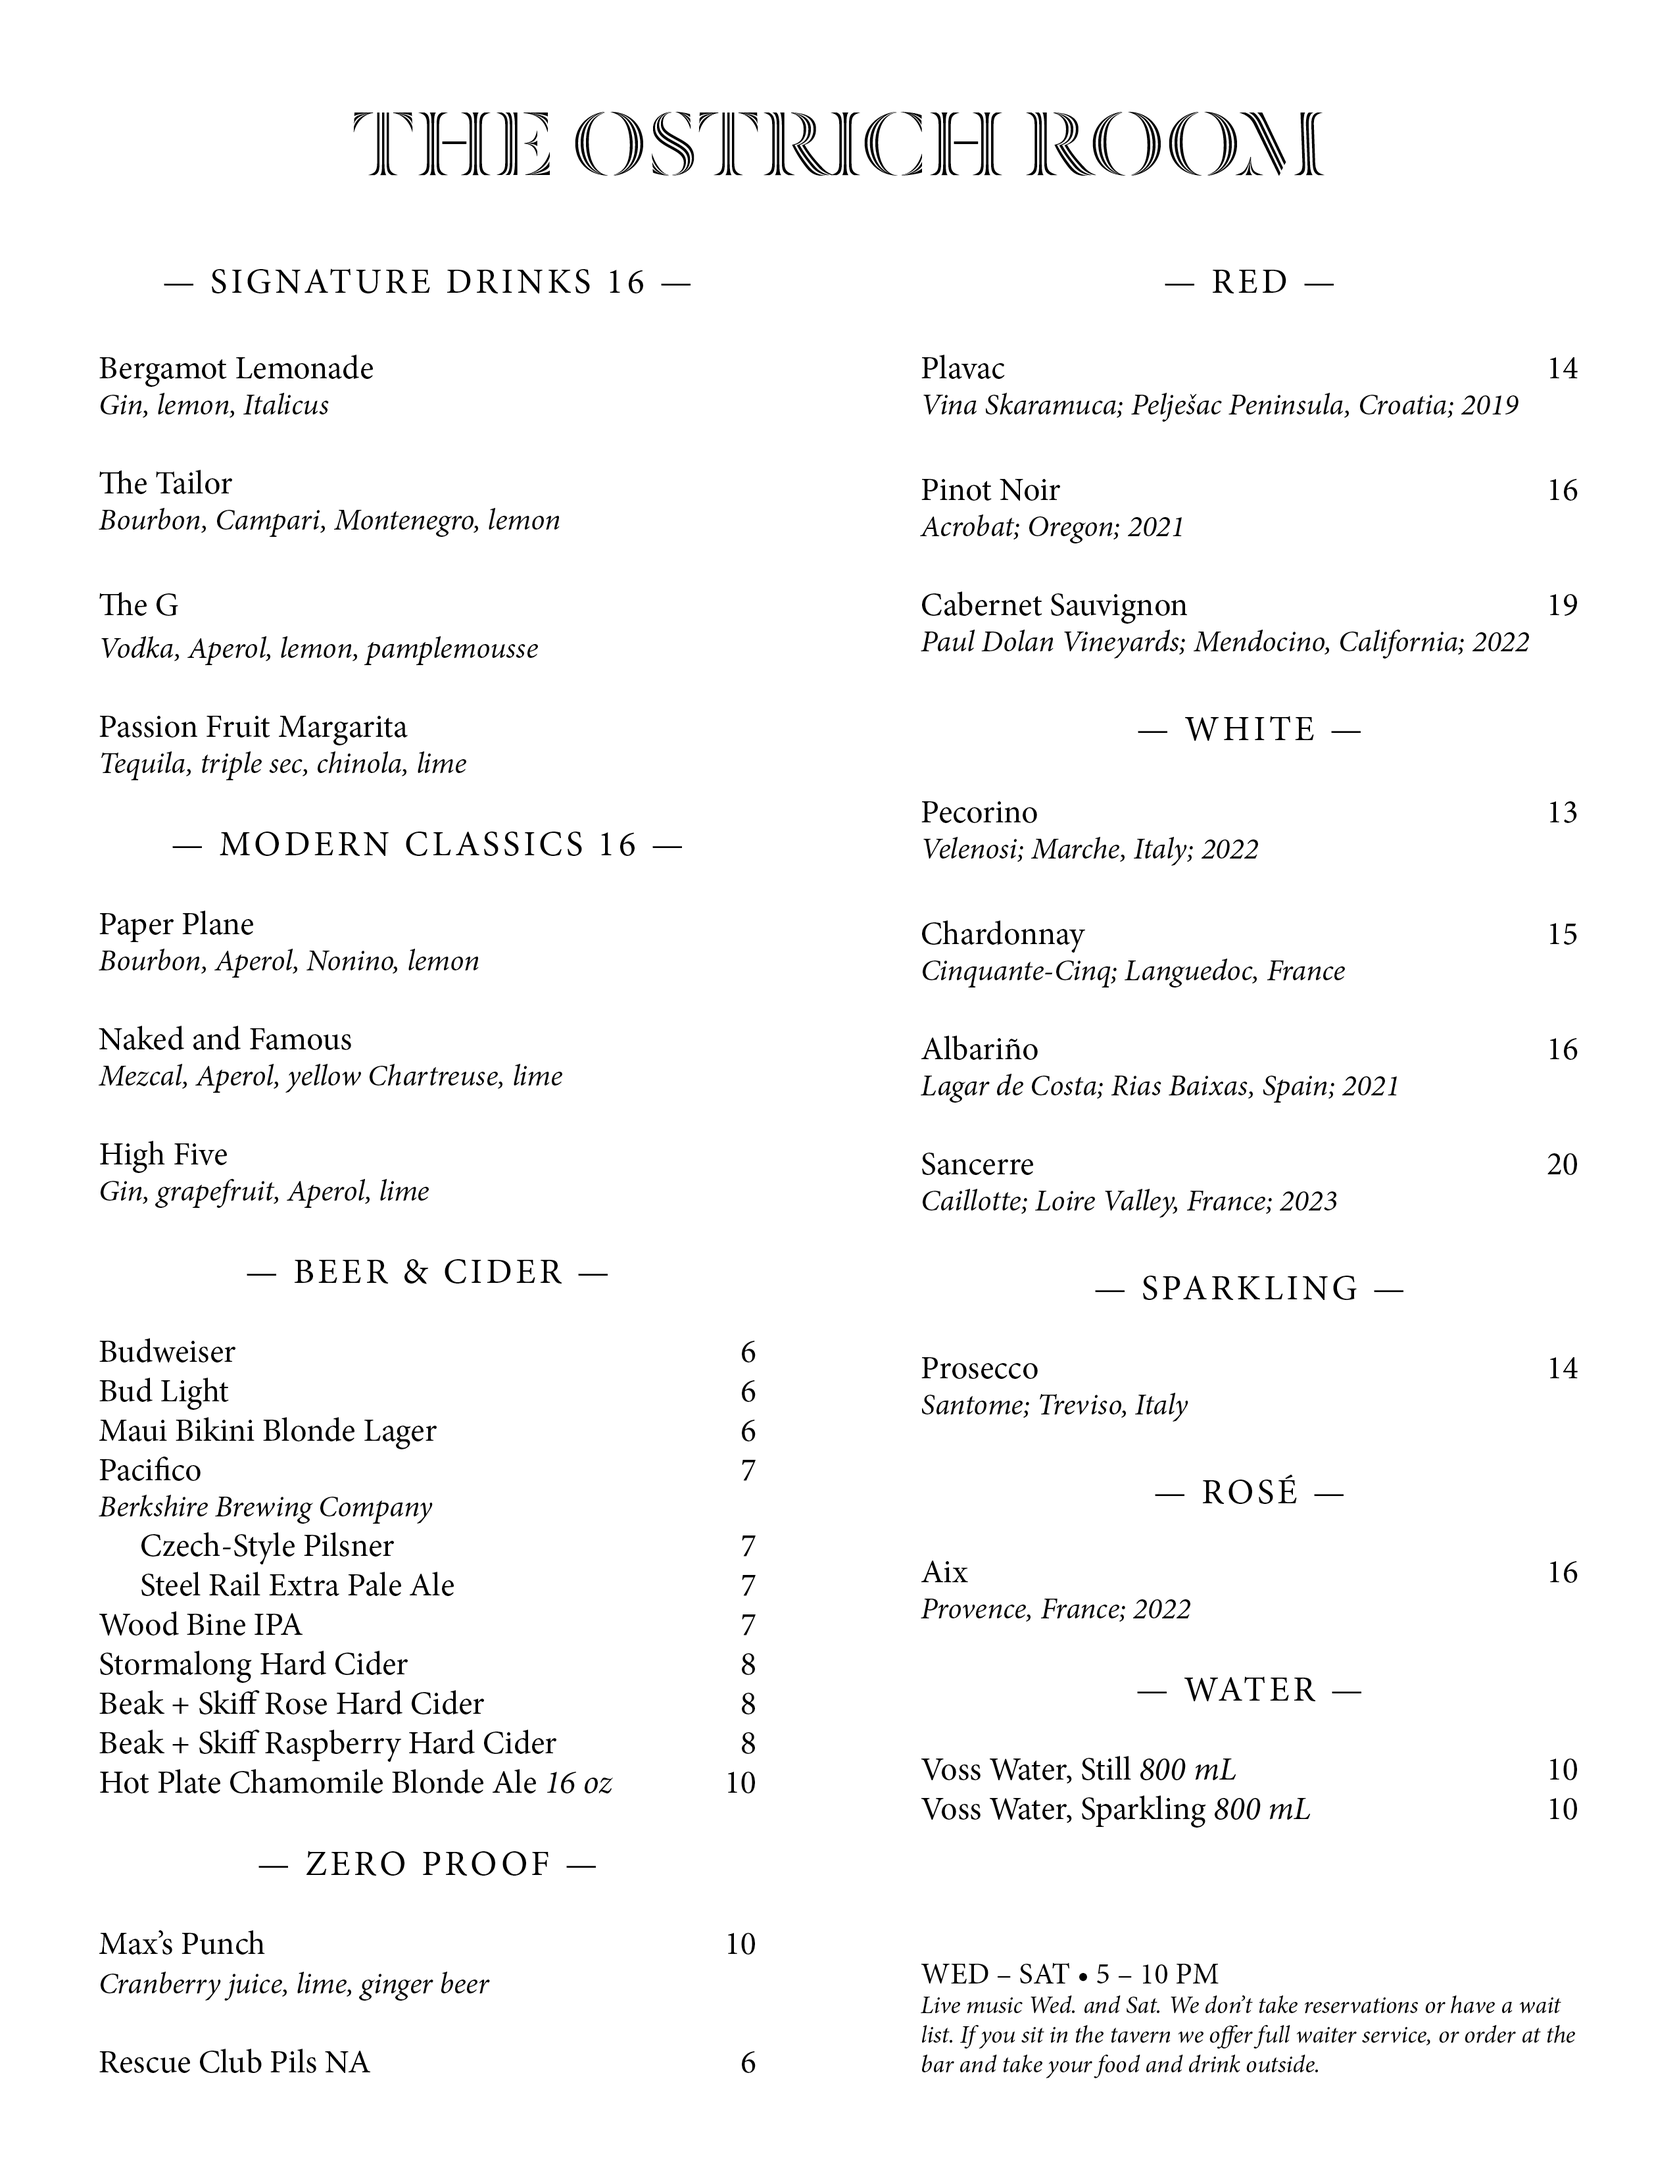
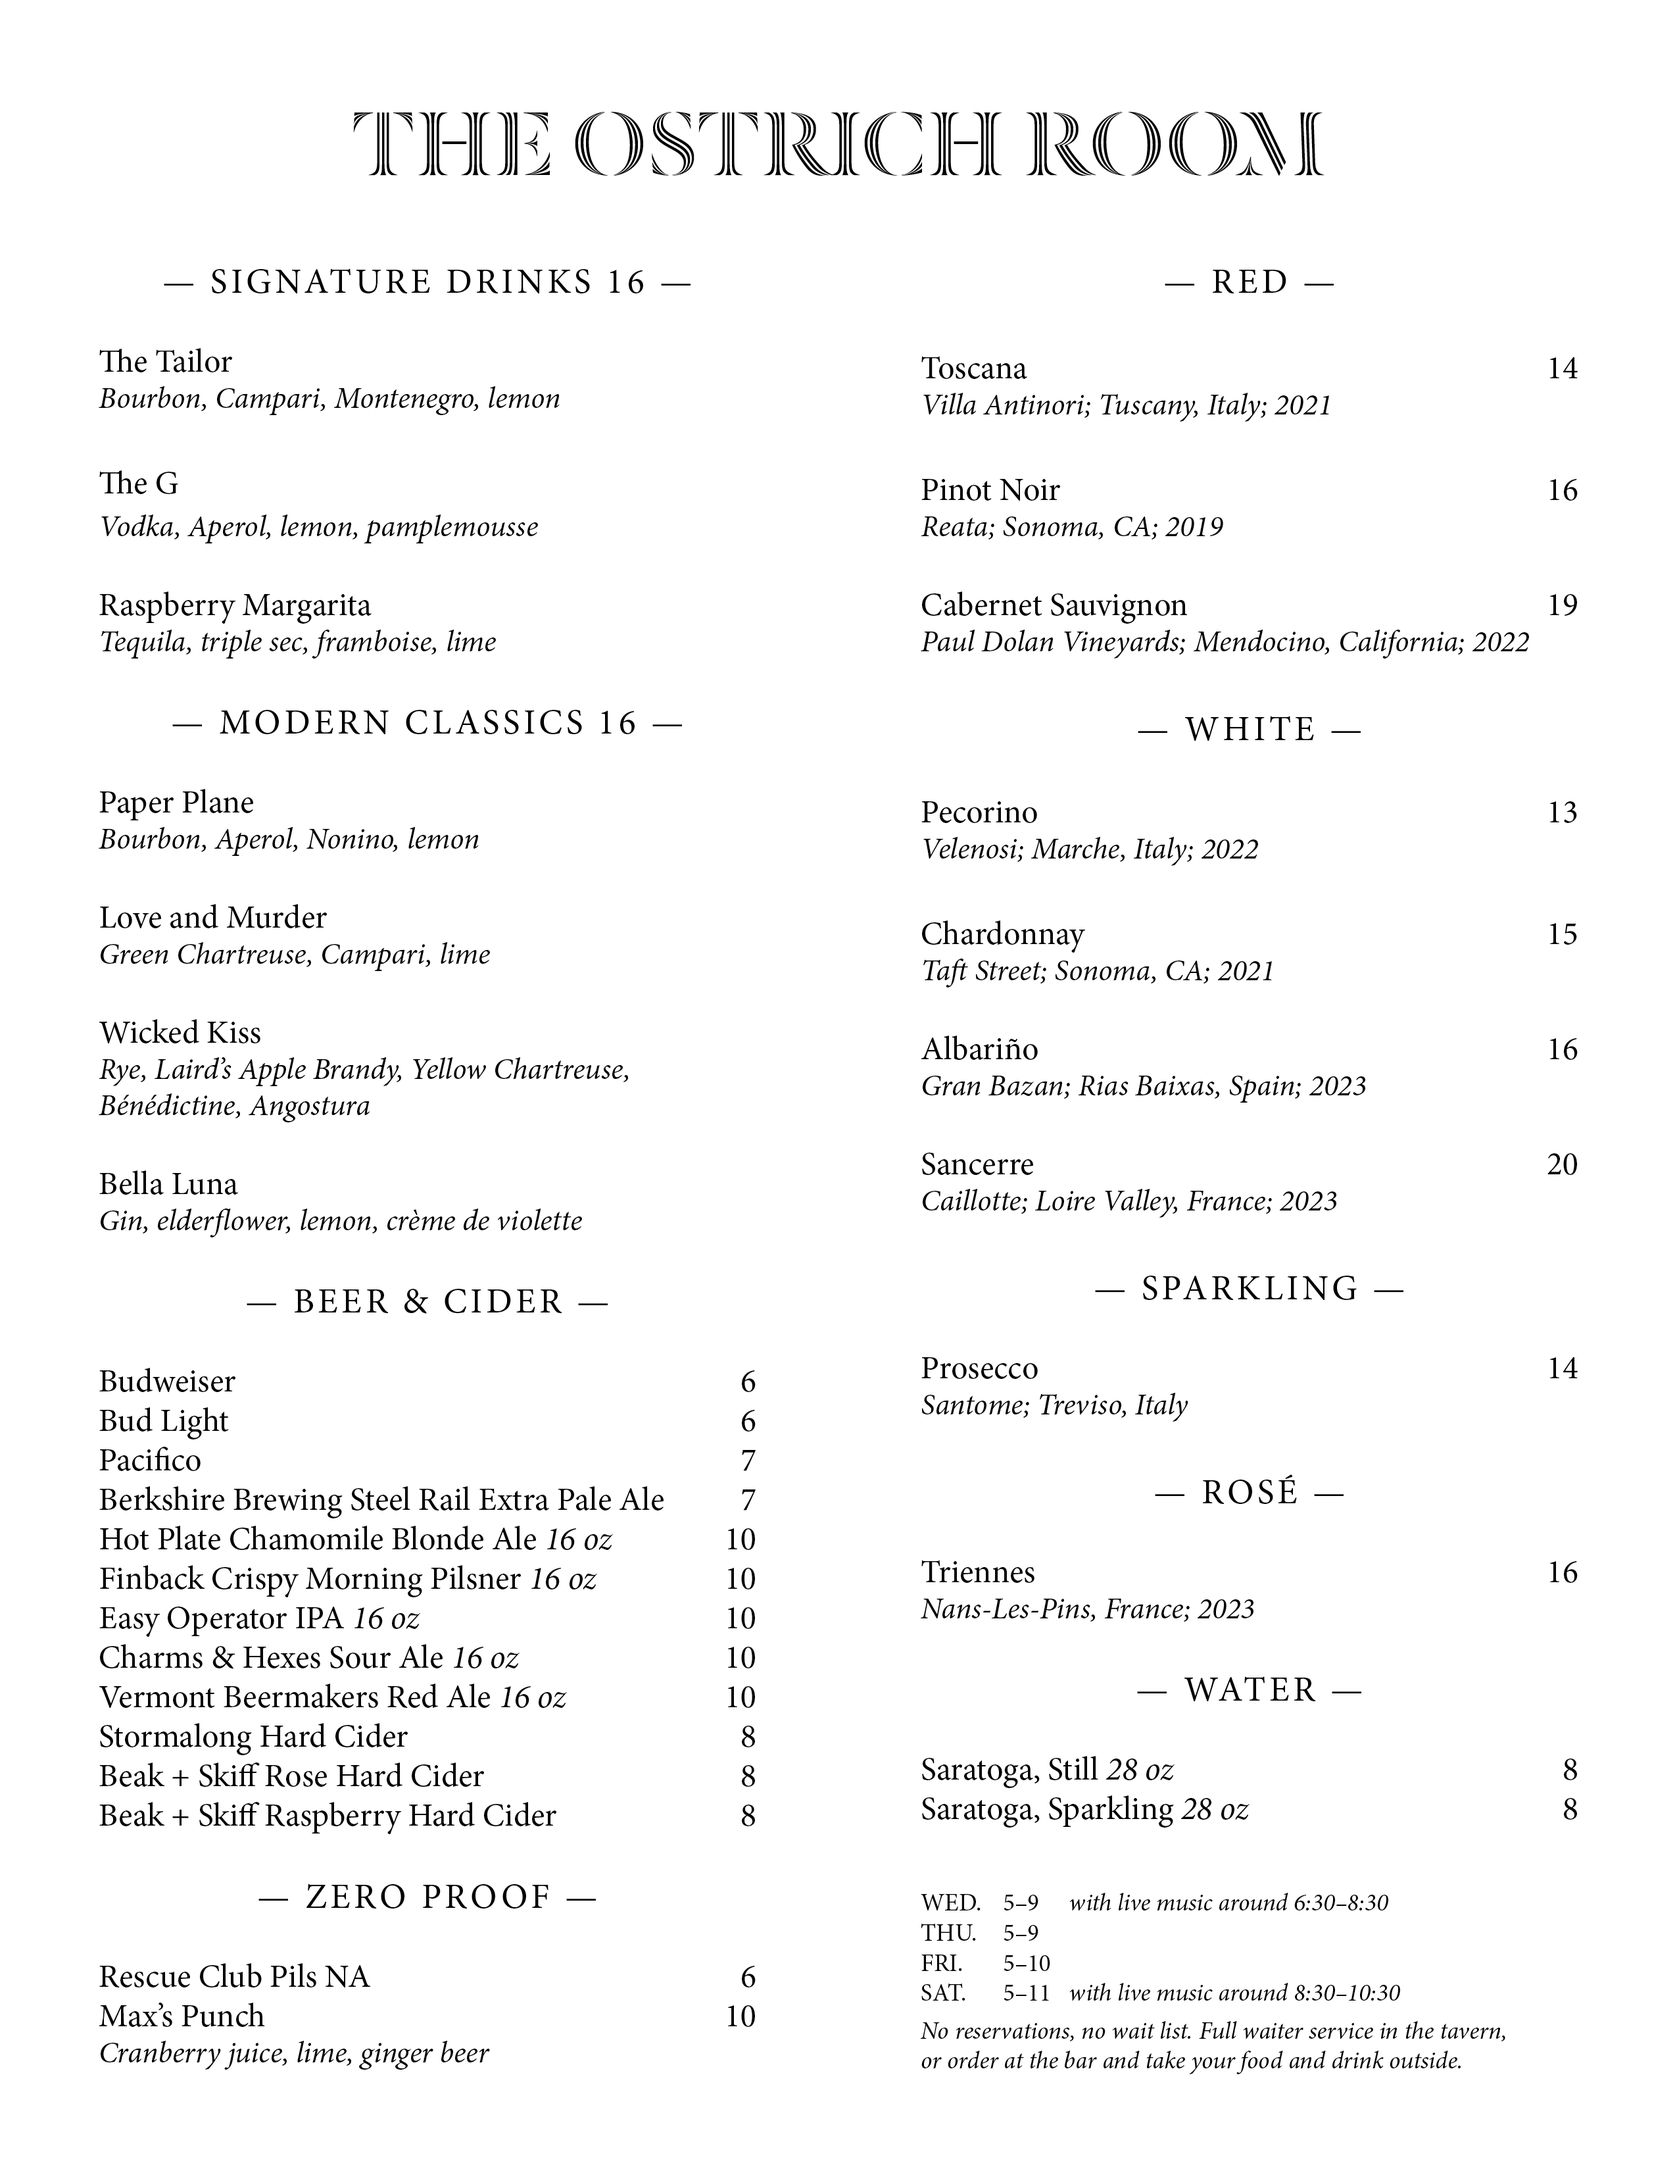
update ostrich rm hours and menus

diff --git a/.svelte-kit/ambient.d.ts b/.svelte-kit/ambient.d.ts
@@ -34,12 +34,12 @@ declare module '$env/static/private' {
 	export const INIT_CWD: string;
 	export const npm_package_devDependencies_prettier_plugin_svelte: string;
 	export const npm_config_version_git_tag: string;
-	export const TERM: string;
 	export const SHELL: string;
+	export const TERM: string;
 	export const npm_package_devDependencies_vite: string;
 	export const FNM_NODE_DIST_MIRROR: string;
-	export const HOMEBREW_REPOSITORY: string;
 	export const TMPDIR: string;
+	export const HOMEBREW_REPOSITORY: string;
 	export const npm_config_init_license: string;
 	export const npm_config_email: string;
 	export const TERM_PROGRAM_VERSION: string;
@@ -75,8 +75,8 @@ declare module '$env/static/private' {
 	export const npm_package_name: string;
 	export const npm_package_scripts_build: string;
 	export const npm_config_version_commit_hooks: string;
-	export const FNM_MULTISHELL_PATH: string;
 	export const XPC_FLAGS: string;
+	export const FNM_MULTISHELL_PATH: string;
 	export const VSCODE_GIT_ASKPASS_EXTRA_ARGS: string;
 	export const npm_config_username: string;
 	export const npm_config_bin_links: string;
@@ -84,8 +84,8 @@ declare module '$env/static/private' {
 	export const npm_package_devDependencies__sveltejs_adapter_auto: string;
 	export const npm_package_version: string;
 	export const VSCODE_INJECTION: string;
-	export const SHLVL: string;
 	export const HOME: string;
+	export const SHLVL: string;
 	export const npm_package_type: string;
 	export const VSCODE_GIT_ASKPASS_MAIN: string;
 	export const npm_config_save_prefix: string;
@@ -150,12 +150,12 @@ declare module '$env/dynamic/private' {
 		INIT_CWD: string;
 		npm_package_devDependencies_prettier_plugin_svelte: string;
 		npm_config_version_git_tag: string;
-		TERM: string;
 		SHELL: string;
+		TERM: string;
 		npm_package_devDependencies_vite: string;
 		FNM_NODE_DIST_MIRROR: string;
-		HOMEBREW_REPOSITORY: string;
 		TMPDIR: string;
+		HOMEBREW_REPOSITORY: string;
 		npm_config_init_license: string;
 		npm_config_email: string;
 		TERM_PROGRAM_VERSION: string;
@@ -191,8 +191,8 @@ declare module '$env/dynamic/private' {
 		npm_package_name: string;
 		npm_package_scripts_build: string;
 		npm_config_version_commit_hooks: string;
-		FNM_MULTISHELL_PATH: string;
 		XPC_FLAGS: string;
+		FNM_MULTISHELL_PATH: string;
 		VSCODE_GIT_ASKPASS_EXTRA_ARGS: string;
 		npm_config_username: string;
 		npm_config_bin_links: string;
@@ -200,8 +200,8 @@ declare module '$env/dynamic/private' {
 		npm_package_devDependencies__sveltejs_adapter_auto: string;
 		npm_package_version: string;
 		VSCODE_INJECTION: string;
-		SHLVL: string;
 		HOME: string;
+		SHLVL: string;
 		npm_package_type: string;
 		VSCODE_GIT_ASKPASS_MAIN: string;
 		npm_config_save_prefix: string;

diff --git a/src/routes/ostrich-room/+page.svelte b/src/routes/ostrich-room/+page.svelte
@@ -3,6 +3,7 @@
 	import Footer from '../Footer.svelte';
 	import Slideshow from '../Slideshow.svelte';
 	import { loadEvents, formatDate } from '$lib/index.js';
+	import OpenSignBig from '../OpenSignBig.svelte';
 
 	let data = $state(undefined);
 	(async function () {
@@ -30,29 +31,19 @@
 	<div class="grid-or-flex">
 		<div>
 			<h1>The Ostrich Room</h1>
-			<div style="background: var(--tan); border: 1px solid var(--brown); border-radius: 5px; padding: 0.5em 0.75em;">The Ostrich Room will be closed September 4–7 for a private event. We’ll reopen on Wed., September 11.</div>
-			<p><s>Ten</s> Seven things to know:</p>
+			<h2>Hours</h2>
+			<OpenSignBig />
+			<h2>Five things to know</h2>
 			<ol>
-				<li>We are open Wednesday – Saturday evenings for both guests and the public.</li>
-				<li>We open at 5 p.m. and close at 10 p.m.</li>
-				<li>
-					We have live music twice a week — Wednesdays & Saturdays — from approximately 7:30–9:30
-					p.m. (see <a href="#calendar">schedule</a>).
-				</li>
-				<li>
-					We do not take reservations & we do not keep a wait list. All tables are first come, first
-					serve, including for hotel guests!
-				</li>
-				<li>If you snag a table in the Ostrich Room, we offer full waiter service.</li>
-				<li>
-					You can also find a spot to sit in the lobby, on the front porch, or outside on the picnic
-					tables and then come in and order at the bar. Take your drinks with you and we’ll bring
-					the food out to you when it’s ready. We will bus your table when you’re done.
-				</li>
-				<li>
-					Life is a work in progress! All of the above may change in the future! Thank you for being
-					here!
-				</li>
+<li>We do not take reservations and we do not keep a wait list. All tables are “first come, first served”, including for hotel guests.</li>
+<li>If you sit in the Ostrich Room, we will come to your table to take your order.</li>
+<li>If you want to sit elsewhere, please order at the bar. Take your drinks with you, and we’ll bring the food.
+	<ul>
+		<li>Feel free to sit in the lobby, on the porch, or outside at the picnic tables. It’s a nice view!</li>
+	</ul>
+</li>
+<li>We will clear your table when you’re done.</li>
+<li>Life is a work in progress! All this may change! Thank you for being here!</li>
 			</ol>
 			<p>
 				Originally built in 1899 by then-owners Henry Pease and Katharine Di Pollone as a billiards
@@ -112,13 +103,13 @@
 <Footer />
 
 <style>
-	h1 {
-		margin-bottom: 0;
+	h2 {
+		margin: 1em 0 0.5em 0;
 	}
 
 	.menus {
 		display: grid;
-		grid-template-columns: 1fr 1fr;
+		grid-template-columns: 1.305fr 1fr;
 		gap: 1em;
 		width: 100%;
 	}

diff --git a/src/lib/index.js b/src/lib/index.js
@@ -2,6 +2,24 @@
 // e.g. import { buildings } from '$lib/index.js';
 import { csvParse } from 'd3-dsv';
 
+// Keep in sync with Banner.svelte message
+export const hours = [
+	[3, [17, 21]],
+	[4, [17, 21]],
+	[5, [17, 22]],
+	[6, [17, 23]]
+];
+
+export const musicHours = [
+	[3, ["6:30", "8:30"]],
+	[6, ["8:30", "10:30"]]
+]
+
+// These dates override the open times
+export const closures = [
+	// new Date(2024, 8, 4),
+];
+
 export async function loadEvents() {
 	let sheet;
 	try {
@@ -16,9 +34,11 @@ export async function loadEvents() {
 	}
 	const now = new Date();
 	const today = new Date(now.getFullYear(), now.getMonth(), now.getDate() - 1); // todo: more robust
-	const data = csvParse(sheet)
-		.map((d) => ({ date: new Date(d.date), description: d.description || "TBD" }))
-	return {past: data.filter(d => d.date < today), future: data.filter((d) => d.date >= today)};
+	const data = csvParse(sheet).map((d) => ({
+		date: new Date(d.date),
+		description: d.description || 'TBD'
+	}));
+	return { past: data.filter((d) => d.date < today), future: data.filter((d) => d.date >= today) };
 }
 
 export const formatDate = (date) =>

diff --git a/src/routes/OpenSignBig.svelte b/src/routes/OpenSignBig.svelte
@@ -1,0 +1,35 @@
+<script>
+	import { hours, closures, musicHours } from '$lib/index.js';
+	const daysOfWeek = ['Sun', 'Mon', 'Tue', 'Wed', 'Thu', 'Fri', 'Sat'];
+    const getMusicForDay = day => {
+        const music = musicHours.find(m => m[0] === day);
+        if (!music) return null;
+        return `with live music ~${music[1].join("–")}`;
+    }
+</script>
+
+<table class="hours">
+	<tbody>
+		{#each hours as day}
+			<tr>
+				<td>{daysOfWeek[day[0]]}.</td>
+				<td>{day[1].map((d) => d - 12).join('–')} p.m.</td>
+                <td style="font-style: italic;">{getMusicForDay(day[0])}</td>
+			</tr>
+		{/each}
+	</tbody>
+</table>
+
+<style>
+	.hours {
+        border-collapse: collapse;
+	}
+	td {
+		padding-right: 0.5em;
+        vertical-align: top;
+	}
+	thead td {
+		padding-bottom: 0.5em;
+		text-transform: uppercase;
+	}
+</style>

diff --git a/src/routes/OpenSign.svelte b/src/routes/OpenSign.svelte
@@ -1,24 +1,10 @@
 <script>
+	import {hours, closures} from "$lib/index.js";
+	
 	const isET = Intl.DateTimeFormat().resolvedOptions().timeZone === 'America/New_York';
 	const today = new Date();
 	const day = today.getDay();
 	const hour = today.getHours();
-
-	// Keep in sync with Banner.svelte message
-	const hours = [
-		[3, [17, 22]],
-		[4, [17, 22]],
-		[5, [17, 22]],
-		[6, [17, 22]]
-	];
-
-	// These dates override the open times
-	const closures = [
-		new Date(2024, 8, 4),
-		new Date(2024, 8, 5),
-		new Date(2024, 8, 6),
-		new Date(2024, 8, 7),
-	];
 
 	function isClosure(date) {
 		return !!closures.find(c => +c === +(new Date(date.getFullYear(), date.getMonth(), date.getDate())));

diff --git a/src/routes/Banner.svelte b/src/routes/Banner.svelte
@@ -1,7 +1,7 @@
 <script>
 	import { onMount } from 'svelte';
 	// Keep in sync with OpenSign.svelte hours
-    const message = 'OSTRICH ROOM CLOSED SEP. 4–7, BACK WED. SEP. 11';
+    const message = 'NEW HOURS FOR OSTRICH ROOM — NOW OPEN TIL 11 SAT — SEE GOOGLE MAPS';
     const chars = message.toUpperCase().split('');
 	onMount(() => {
         const charWidth = 14;

diff --git a/static/styles.css b/static/styles.css
@@ -55,12 +55,12 @@ h1 {
 	margin: 0;
 }
 
-h1 + h2 {
+/* h1 + h2 {
 	font-style: italic;
 	font-weight: normal;
 	font-size: 1.2em;
 	margin-top: 0;
-}
+} */
 
 h2,
 h3,
